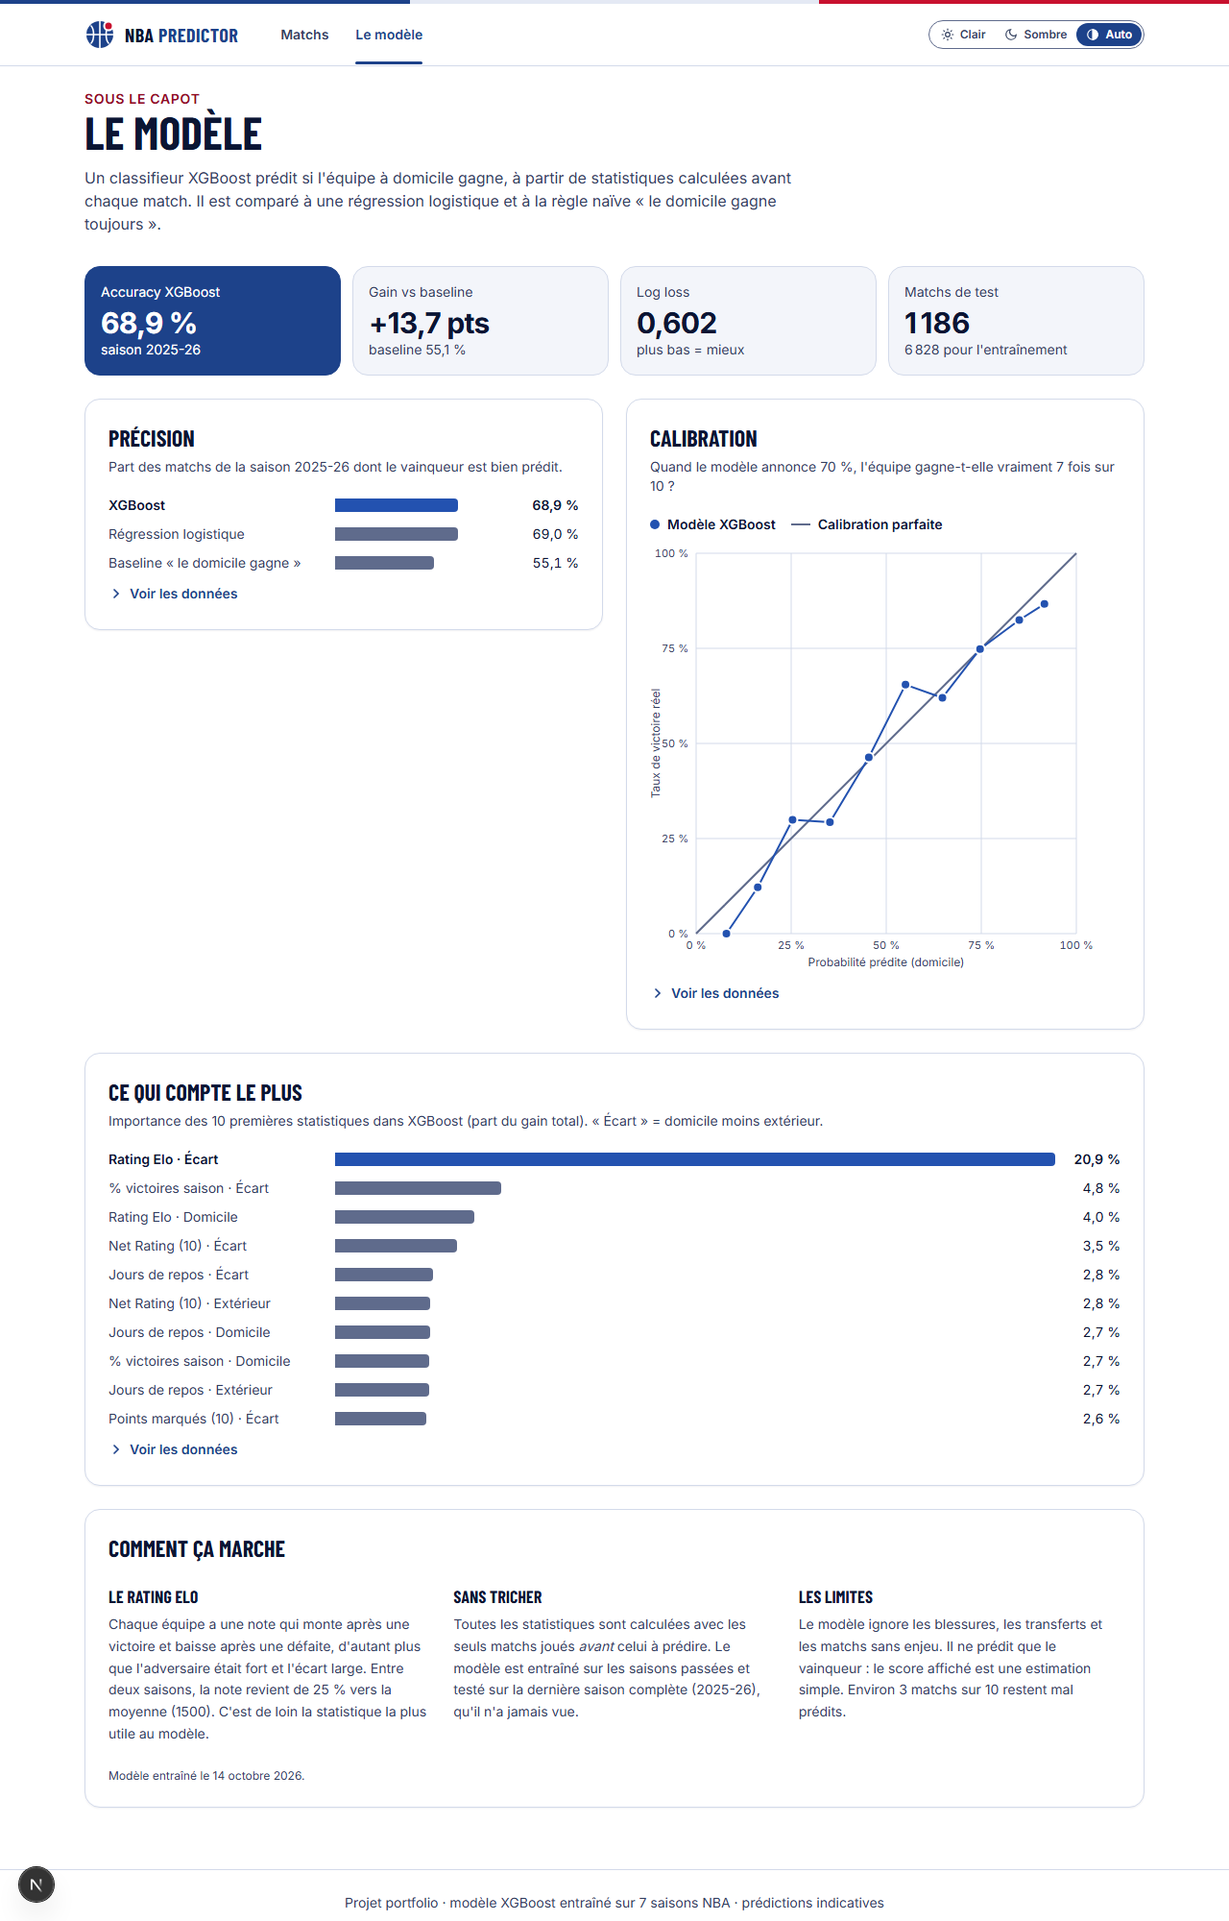
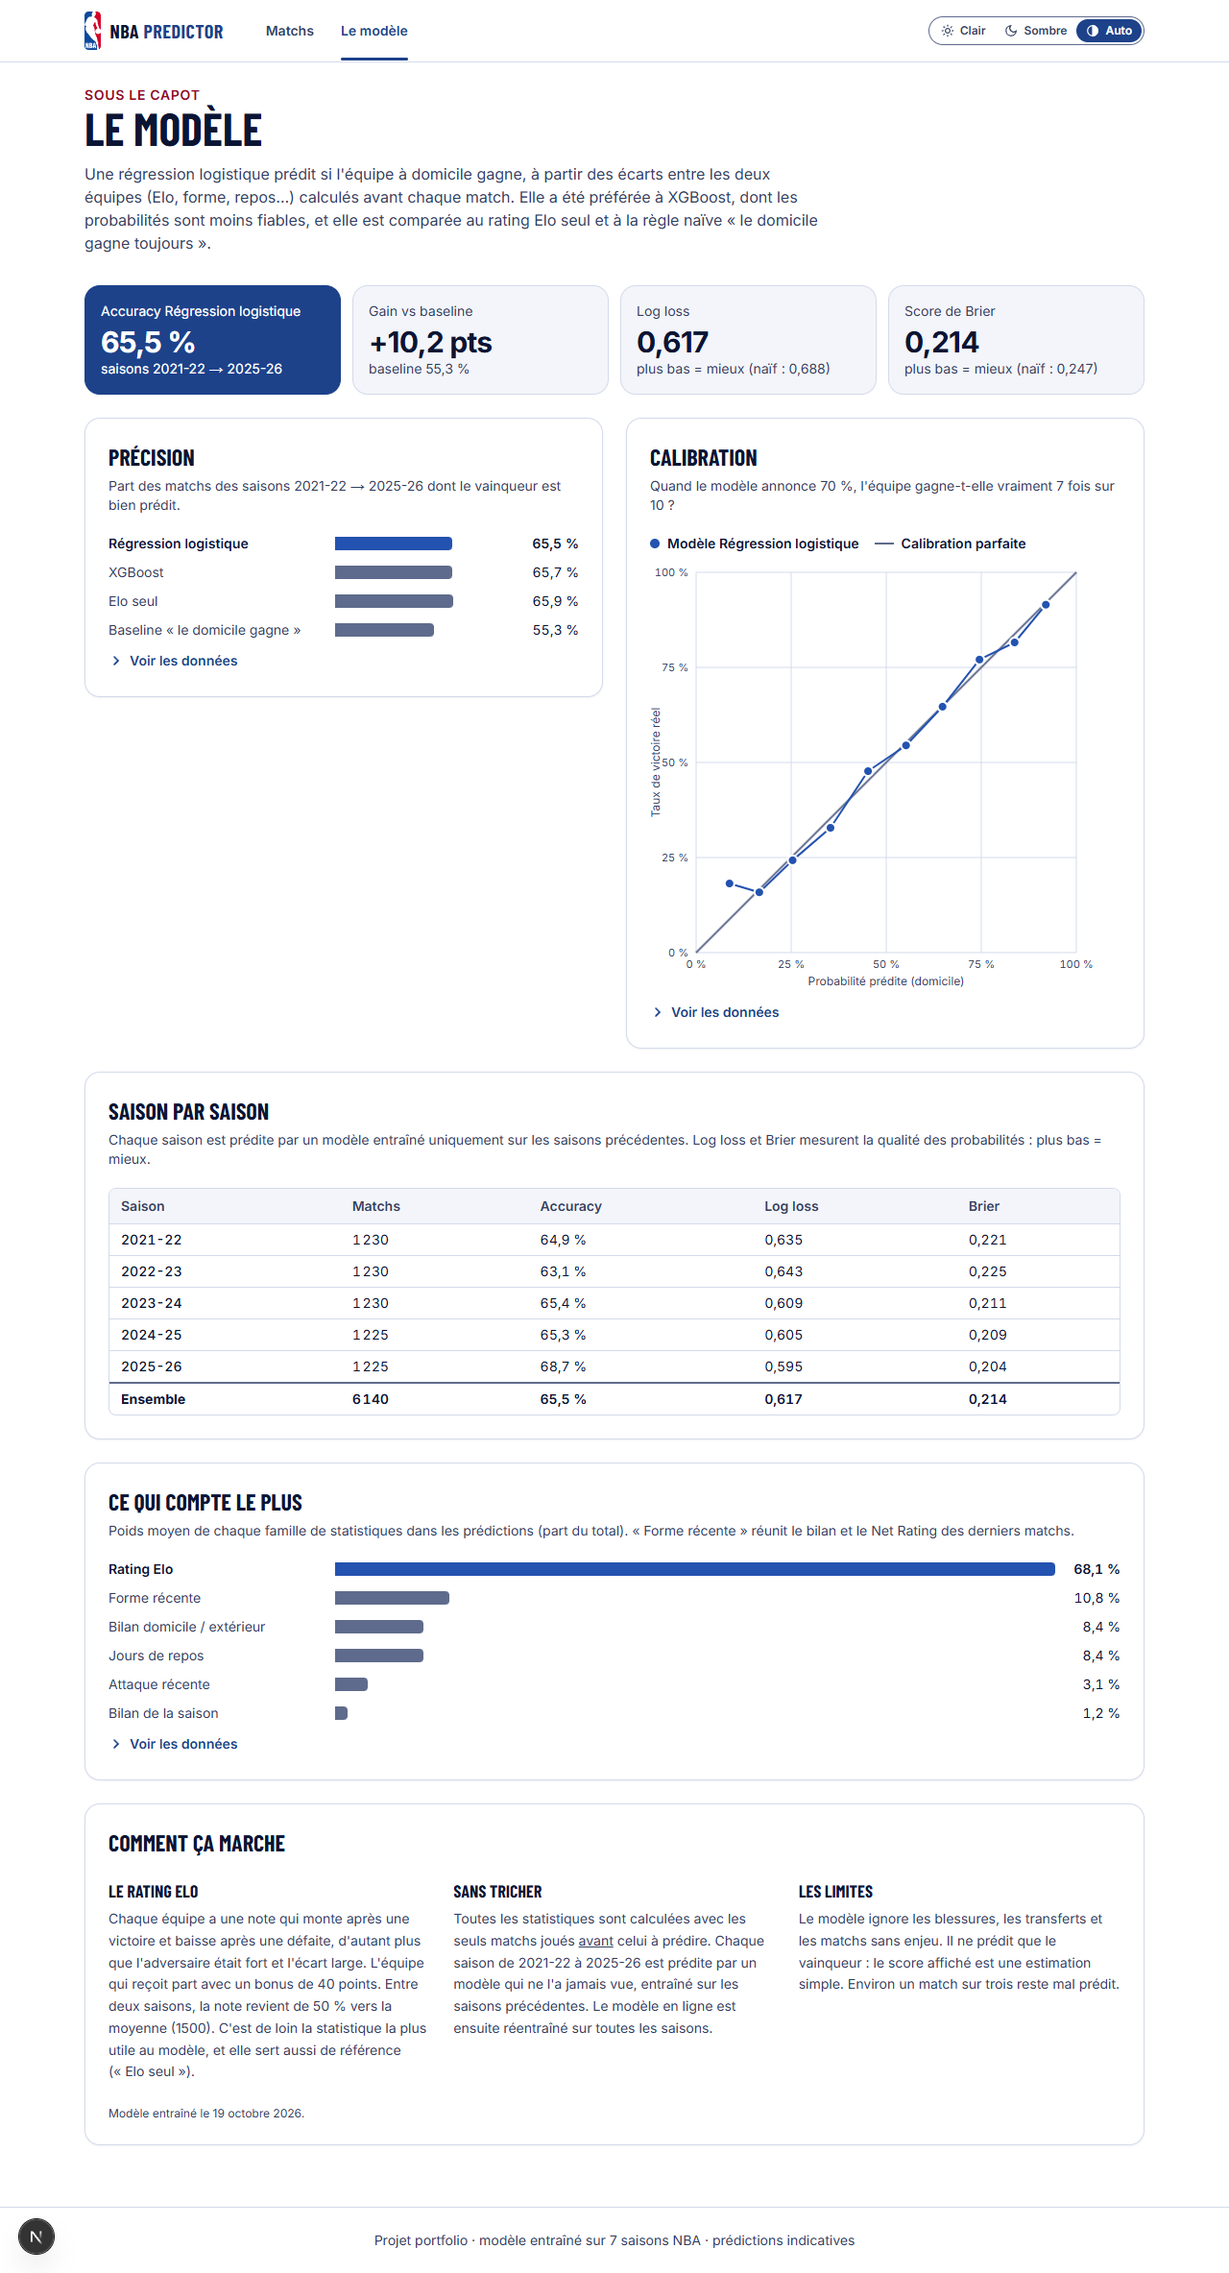
Met à jour la documentation avec le choix du modèle
architecture.md : section « Choisir le modèle » (essais de l'étape 3,
résultats, modèle servi, explication par contributions linéaires),
tableau walk-forward, valeurs manquantes, décisions et pistes.
README.md : tableau des résultats, régression logistique en ligne.
Captures de la page « Le modèle » (clair, sombre) refaites.

diff --git a/docs/architecture.md b/docs/architecture.md
@@ -8,7 +8,7 @@ Ce document explique comment le projet est construit et pourquoi. Pour lancer l'
 PC de développement (IP résidentielle)
   nba_api ──> data/collectors ──> data/preprocessing ──> data/models
                                         │                    │
-                          team_state.json, schedule.json    xgboost_v1.pkl, feature_columns.json,
+                          team_state.json, schedule.json    logreg.pkl, feature_columns.json,
                                         │                    model_metrics.json
                                         ▼                    ▼
                                  api/ (FastAPI) ── lit les fichiers, prédit à la demande
@@ -44,6 +44,8 @@ Pour chaque équipe, calculées **avant** le match :
 - **Jours de repos**, plafonnés à 7.
 - **Différences** domicile − extérieur de chacune, généralement plus discriminantes qu'une paire de colonnes séparées.
 
+Le modèle n'utilise que les différences et l'Elo de chaque équipe (11 variables, voir « Choisir le modèle »). Les autres colonnes restent calculées : la fiche match les affiche.
+
 ### Éviter la fuite temporelle
 
 Une feature qui utilise une information connue seulement après le match donne un modèle excellent en test et inutile en production. Quatre protections :
@@ -51,7 +53,7 @@ Une feature qui utilise une information connue seulement après le match donne u
 1. Chaque statistique glissante est décalée d'un match (`shift(1)`), et l'Elo enregistré est celui d'**avant** le match.
 2. Chaque saison testée est prédite par un modèle entraîné uniquement sur les saisons qui la précèdent : pas de découpage aléatoire (voir « Évaluer honnêtement »).
 3. `game_features.csv` contient aussi le boxscore brut du match joué (`home_fga`, `away_oreb`…), connu seulement après coup. `train_model.py` choisit ses colonnes par **liste blanche de motifs** (`FEATURE_PATTERNS`) et jamais par liste noire : une nouvelle colonne ne devient pas une feature par accident.
-4. `check_features.py` le vérifie automatiquement : il inverse le résultat de quelques matchs et recalcule toutes les features. Celles du match et des matchs antérieurs ne doivent pas bouger, celles des matchs suivants si. Le même script contrôle que l'API calcule exactement les mêmes features que l'entraînement (50 matchs, `team_state.json` reconstruit avec les seuls matchs antérieurs, écart toléré 1e-9).
+4. `check_features.py` le vérifie automatiquement : il inverse le résultat de quelques matchs et recalcule toutes les features. Celles du match et des matchs antérieurs ne doivent pas bouger, celles des matchs suivants si. Le même script contrôle que l'API calcule exactement les mêmes features que l'entraînement (50 matchs, `team_state.json` reconstruit avec les seuls matchs antérieurs, écart toléré 1e-9), et que l'explication renvoyée pour ces matchs redonne bien la probabilité.
 
 ### Évaluer honnêtement
 
@@ -64,16 +66,15 @@ Deux variantes se comparent sur les **mêmes matchs** : on calcule l'écart de l
 | Modèle | Précision | Log loss | Brier |
 | --- | --- | --- | --- |
 | Règle naïve (taux de victoire à domicile) | 55,3 % | 0,688 | 0,247 |
-| XGBoost (servi par l'API) | 64,6 % | 0,633 | 0,221 |
-| Régression logistique | 65,6 % | 0,619 | 0,215 |
+| **Régression logistique (servie par l'API)** | 65,5 % | 0,617 | 0,214 |
+| XGBoost | 65,7 % | 0,621 | 0,216 |
 | Elo seul (sans apprentissage) | 65,9 % | 0,618 | 0,215 |
 
-(Avec l'Elo réglé le 2026-10-19. Avant le réglage : XGBoost 0,635, régression logistique 0,620, Elo seul 0,632.)
+(État du 2026-10-19 après le réglage de l'Elo et le choix du modèle. Au départ, avec 31 variables et l'Elo d'origine : XGBoost 0,635, régression logistique 0,620, Elo seul 0,632.)
 
 Ce que ça a montré :
-- La précision varie de 62 % (2022-23) à 69 % (2025-26) d'une saison à l'autre. Le 69 % mesuré sur la seule saison 2025-26 surestimait ce qu'on peut attendre en moyenne.
-- La régression logistique donne de **meilleures probabilités** que XGBoost : écart de log loss de 0,014 (intervalle à 95 % : 0,009 à 0,019), dans le même sens sur les 5 saisons.
-- **L'Elo seul fait aussi bien que la régression logistique** (écart dans le bruit), et significativement mieux que XGBoost : écart de 0,015 (0,009 à 0,020), y compris sur les deux saisons qui n'ont pas servi à régler l'Elo. Les 30 autres variables n'apportent donc rien de mesurable aux probabilités, et XGBoost les dégrade. Le choix du modèle servi reste ouvert.
+- La précision varie de 63 % (2022-23) à 69 % (2025-26) d'une saison à l'autre. Le 69 % mesuré sur la seule saison 2025-26 surestimait ce qu'on peut attendre en moyenne.
+- Avant le choix du modèle, XGBoost, alors servi, donnait des probabilités nettement moins bonnes que la régression logistique et que l'Elo seul (écart de log loss de 0,014 à 0,015, dans le même sens sur les 5 saisons). D'où les essais de « Choisir le modèle ».
 - Résultat négatif : entraîner aussi sur les matchs où une variable manque n'apporte rien de mesurable. L'entraînement se fait donc sur les matchs complets.
 
 ### Régler l'Elo
@@ -90,6 +91,24 @@ Les paramètres sont écrits dans `model_metrics.json` (`elo_params`) et dans `t
 
 Les modèles servis sont ensuite réentraînés sur **toutes** les saisons, 2025-26 comprise : c'est la situation que simule chaque pli (prédire la saison suivante avec tout le passé connu).
 
+### Choisir le modèle
+
+Cinq essais, un par un, chacun adopté seulement s'il passe la règle de la comparaison appariée. Réglages sur 2021-22 à 2023-24, confirmation sur l'ensemble et sur 2024-25 + 2025-26 :
+
+| Essai | Écart de log loss (intervalle à 95 %) | Décision |
+| --- | --- | --- |
+| Bilan de la saison lissé en début de saison : (V + 4) / (N + 8) au lieu d'une valeur manquante | XGBoost −0,0011 (−0,0039 à +0,0019), mais +0,0028 sur les 2 saisons de confirmation ; régression logistique −0,0002 | Écarté |
+| Garder seulement les écarts domicile − extérieur et l'Elo des deux équipes (11 variables au lieu de 31) | Régression logistique −0,0016 (−0,0026 à −0,0006), même sens sur les 5 saisons ; XGBoost dans le bruit | Adopté |
+| XGBoost avec arrêt précoce (profondeur 2, environ 150 arbres au lieu de 300) | −0,0113 (−0,0152 à −0,0076), 5 saisons sur 5 | Adopté pour XGBoost |
+| Modèle de marge : régression Ridge sur l'écart de points, P = Φ(μ/σ) | +0,0000 (−0,0011 à +0,0011) face à la régression logistique | Écarté (égalité, plus complexe), à reprendre pour le score |
+| Moyennes de plusieurs modèles, en log-odds | Toutes dans le bruit face à la régression logistique seule | Écartées |
+
+Une recalibration (Platt) n'était prévue que si l'erreur de calibration dépassait 2 points : elle est de 1,5 point.
+
+**Modèle servi : la régression logistique**, qui a la meilleure log loss. Face à XGBoost amélioré : −0,0040 (−0,0064 à −0,0015), 5 saisons sur 5 ; face à l'Elo seul : −0,0010 (−0,0030 à +0,0011), dans le bruit. Face à l'ancien modèle servi (XGBoost à 31 variables) : −0,0156 (−0,0202 à −0,0106) et +0,9 point de précision. Sur les 107 premiers matchs de saison régulière 2026-27, ses probabilités suivent celles de l'Elo seul (corrélation 0,98, 56 % en moyenne pour l'équipe qui reçoit) ; l'ancien XGBoost sous-estimait le domicile (53,5 %).
+
+L'explication d'une prédiction reste exacte. Pour un modèle linéaire, la contribution d'une variable est son coefficient multiplié par sa valeur standardisée (0 = valeur moyenne de l'entraînement), en log-odds ; le biais plus la somme des contributions redonne la probabilité. Le bilan des 10 derniers matchs et le Net Rating récent forment une seule famille, « Forme récente » : corrélés à 0,88, ils se partagent le même effet de façon instable (le coefficient du bilan récent passe de +0,04 à −0,13 selon les saisons d'entraînement). Séparés, ils donneraient des facteurs de signes opposés difficiles à lire.
+
 ### `features_lib.py` : une seule définition des formules
 
 L'entraînement calcule les features sur tout l'historique (vectorisé, pandas). L'API les calcule pour un seul match futur à partir de `team_state.json`. Si les deux codes divergeaient, le modèle tournerait sans erreur mais avec de moins bonnes prédictions, sans qu'on le voie. `features_lib.py` contient donc les constantes (fenêtres, paramètres Elo `DEFAULT_ELO_PARAMS`, plafond de repos) et les fonctions pures utilisées des deux côtés. La non-régression a été vérifiée : l'ancienne et la nouvelle implémentation de l'Elo donnent un écart de 0,0 sur les 8 279 matchs.
@@ -97,14 +116,14 @@ L'entraînement calcule les features sur tout l'historique (vectorisé, pandas).
 ### Cas particuliers gérés à la prédiction
 
 - **Changement de saison** : la saison d'un match est déduite de sa date (frontière en août). Si elle est postérieure à celle de `team_state.json`, on reproduit ce que fait l'entraînement : Elo régressé vers la moyenne (50 %) et bilans de la saison remis à zéro (manquants). Les moyennes glissantes ne sont pas remises à zéro, comme à l'entraînement.
-- **Valeurs manquantes** : laissées en `NaN`, XGBoost les gère nativement, plutôt qu'une valeur arbitraire qui biaiserait la prédiction.
+- **Valeurs manquantes** (bilan de la saison avant le premier match) : remplacées par la médiane de l'entraînement, par le modèle lui-même (`SimpleImputer` en tête du pipeline), comme pendant l'évaluation. Leur contribution à l'explication est alors presque nulle.
 - **Jours de repos** : plafonnés à 7 à l'entraînement et en prédiction (`REST_DAYS_CAP`). Sans plafond, les ~100 matchs d'ouverture de saison de l'historique (130 à 288 jours après le dernier match, à cause de l'intersaison et de la « bulle » de 2020) donnent des valeurs que le modèle voit trop peu. Mesuré sur 5 graines : le plafond ne change pas la qualité de façon mesurable (69,1 % sans plafond contre 68,6 % avec, pour un écart-type de 0,4 point entre graines). Une date antérieure au dernier match connu donne un repos manquant plutôt qu'un nombre négatif.
 
 ## API (`api/`)
 
 FastAPI, un routeur par domaine. La logique est dans `services/`, les routes dans `routers/`.
 
-- `services/predictor_service.py` : charge une seule fois le modèle, `feature_columns.json` et `team_state.json`, construit les features d'un match et prédit. Relit `team_state.json` quand sa date de modification change, sans redémarrage. Calcule aussi l'explication : les contributions XGBoost de type SHAP (`pred_contribs`) en log-odds, sommées par famille de statistiques. La sigmoïde de (biais + somme des contributions) redonne exactement la probabilité affichée. Avertit dans le journal si les paramètres Elo de `team_state.json`, de `model_metrics.json` et du code diffèrent.
+- `services/predictor_service.py` : charge une seule fois le modèle, `feature_columns.json` et `team_state.json`, construit les features d'un match et prédit. Relit `team_state.json` quand sa date de modification change, sans redémarrage. Calcule aussi l'explication : les contributions de la régression logistique (`features_lib.linear_contributions`, coefficient × valeur standardisée) en log-odds, sommées par famille de statistiques (`FACTOR_FAMILIES`, aussi utilisées pour les poids de la page « Le modèle »). La sigmoïde de (biais + somme des contributions) redonne exactement la probabilité affichée. Avertit dans le journal si les paramètres Elo de `team_state.json`, de `model_metrics.json` et du code diffèrent.
 - `services/schedule_service.py` : lit `schedule.json`. Un appel direct à la NBA n'a lieu que si `NBA_LIVE_SCHEDULE_FALLBACK` est actif (développement local).
 - `routers/games.py` : `/games/today`, `/games/calendar`, `/games/{game_id}`. Erreurs distinguées : 400 date mal formée, 404 date non synchronisée, 502 calendrier NBA indisponible, 503 modèle non prêt. Un match avec une équipe inconnue renvoie `prediction: null` sans faire échouer le reste de la liste.
 - `routers/model.py` : `/model/metrics`.
@@ -162,4 +181,6 @@ Si les fichiers deviennent insuffisants : PostgreSQL local (conteneur Docker). T
 | Validation walk-forward plutôt qu'une saison de test | Mesure la variation d'une saison à l'autre et permet des comparaisons appariées assez sensibles pour décider |
 | Entraînement sur les matchs complets | Garder les matchs incomplets n'aidait pas (écart dans le bruit) et dégradait la régression logistique sur ces matchs |
 | Paramètres Elo réglés sur l'Elo seul | Objectif propre à l'Elo (pas au modèle complet), réglage sur 2020-21 à 2023-24, confirmation sur 2 saisons jamais vues : avantage du terrain 100 → 40, régression 25 % → 50 % |
-| Pistes (plan du 2026-10-19) | Bilan lissé en début de saison, choix du modèle servi (l'Elo seul et la régression logistique battent XGBoost en probabilités), fatigue et déplacements, vrai modèle de régression pour le score, joueurs absents |
+| Régression logistique servie plutôt que XGBoost | Meilleure log loss en walk-forward (écart significatif, même sens sur les 5 saisons) et explication exacte de chaque prédiction |
+| 11 variables seulement (écarts + Elo) | Les 20 autres colonnes n'aidaient aucun modèle et gênaient la régression logistique ; elles restent affichées sur la fiche match |
+| Pistes (plan du 2026-10-19) | Fatigue et déplacements, vrai modèle de régression pour le score, joueurs absents |

diff --git a/README.md b/README.md
@@ -11,8 +11,8 @@ Projet personnel réalisé en BUT MMI (parcours Dev) pour travailler un projet c
 ## Ce que fait l'application
 
 - **Matchs du jour** : un bandeau de 14 jours et un calendrier mensuel au clavier, avec pour chaque match la probabilité de victoire, le score estimé et la forme récente des deux équipes.
-- **Fiche match** : pourquoi le modèle prédit ce résultat (contributions de type SHAP regroupées par famille de statistiques), comparaison côte à côte des deux équipes, courbes de forme et d'évolution de l'Elo.
-- **Page « Le modèle »** : précision, log loss, score de Brier, résultats saison par saison, courbe de calibration et importance des variables, lus directement dans les résultats du dernier entraînement.
+- **Fiche match** : pourquoi le modèle prédit ce résultat (contributions exactes de chaque statistique, regroupées par famille), comparaison côte à côte des deux équipes, courbes de forme et d'évolution de l'Elo.
+- **Page « Le modèle »** : précision, log loss, score de Brier, résultats saison par saison, courbe de calibration et poids de chaque famille de statistiques, lus directement dans les résultats du dernier entraînement.
 - **Accessibilité** : couleurs vérifiées au contraste WCAG AAA (`npm run check:contrast`), thème clair et sombre, navigation au clavier, tableau de données alternatif pour chaque graphique, animations réduites si le système le demande.
 
 | Fiche match (sombre) | Page « Le modèle » |
@@ -26,11 +26,11 @@ Validation **walk-forward** : chaque saison de 2021-22 à 2025-26 est prédite p
 | Modèle | Précision | Log loss | Brier |
 | --- | --- | --- | --- |
 | Règle naïve « le domicile gagne » | 55,3 % | 0,688 | 0,247 |
-| XGBoost (utilisé par l'API) | 64,6 % | 0,633 | 0,221 |
-| Régression logistique | 65,6 % | 0,619 | 0,215 |
+| **Régression logistique (utilisée par l'API)** | 65,5 % | 0,617 | 0,214 |
+| XGBoost | 65,7 % | 0,621 | 0,216 |
 | Elo seul (sans apprentissage) | 65,9 % | 0,618 | 0,215 |
 
-La précision varie de 62 % à 69 % selon la saison. Sur la seule saison 2025-26, la plus facile de la période, les trois modèles atteignent 69 %. La régression logistique donne des probabilités nettement mieux calibrées que XGBoost : l'écart de log loss est significatif, dans le même sens sur les 5 saisons. Les paramètres de l'Elo (avantage du terrain, régression entre saisons) ont été réglés sur des saisons passées puis confirmés sur deux saisons jamais vues ; l'Elo seul fait alors aussi bien que la régression logistique. La variable de loin la plus utile est la **différence de rating Elo** entre les deux équipes ; c'est elle qui a fait passer la précision de 66,8 % à près de 69 % (sur 2025-26) pendant le développement.
+La précision varie de 63 % à 69 % selon la saison. Sur la seule saison 2025-26, la plus facile de la période, les trois modèles atteignent 69 %. La régression logistique, qui ne garde que 11 variables (écarts entre les deux équipes et Elo de chacune), donne les meilleures probabilités : sa log loss est significativement plus basse que celle de XGBoost, dans le même sens sur les 5 saisons. C'est donc elle qui est en ligne, et chacune de ses prédictions se décompose exactement en contributions des statistiques. Les paramètres de l'Elo (avantage du terrain, régression entre saisons) ont été réglés sur des saisons passées puis confirmés sur deux saisons jamais vues ; l'Elo seul fait alors jeu égal avec la régression logistique, ce qui veut dire que les autres statistiques n'apportent presque rien de plus. La variable de loin la plus utile est la **différence de rating Elo** entre les deux équipes ; c'est elle qui a fait passer la précision de 66,8 % à près de 69 % (sur 2025-26) pendant le développement.
 
 **Limites assumées** : le modèle ignore les blessures, les transferts et les joueurs absents. Le score affiché est une heuristique (forme offensive et défensive récente), pas un modèle de régression : le modèle ne sait que classer victoire ou défaite. En tout début de saison, `win_pct` n'a pas encore de valeur, et les premières prédictions reposent surtout sur l'Elo et la forme de fin de saison précédente.
 
